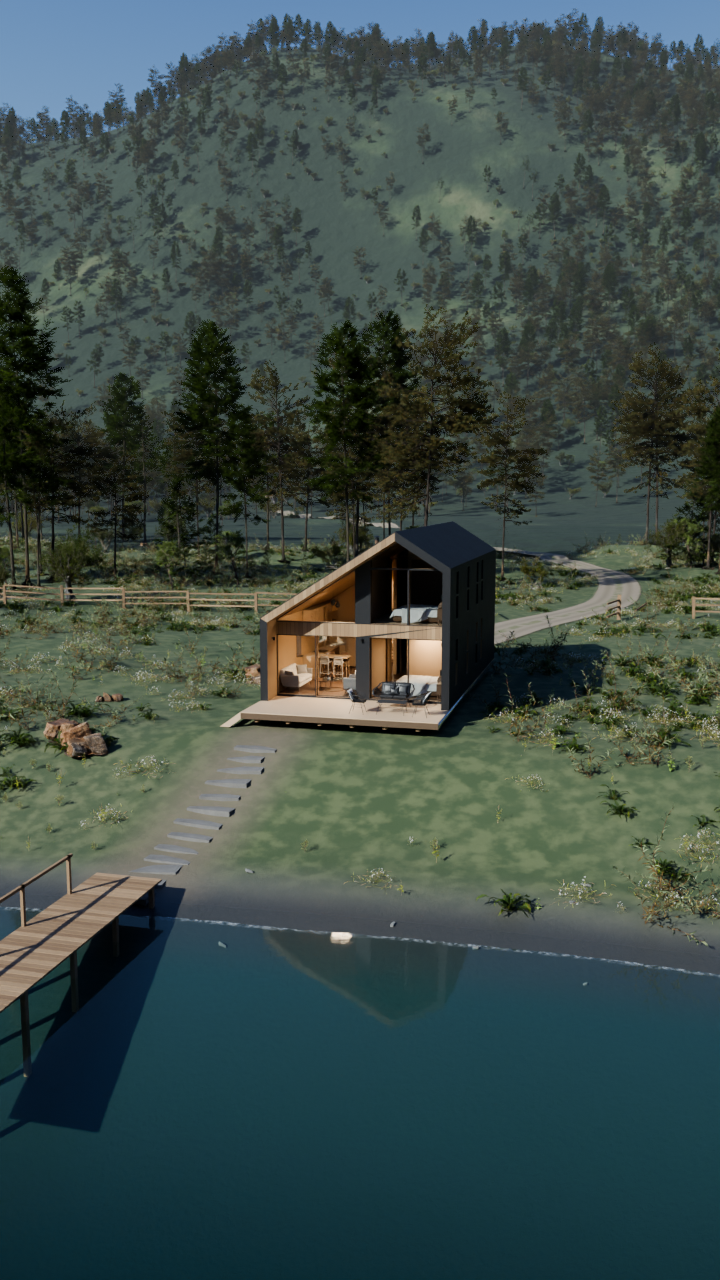
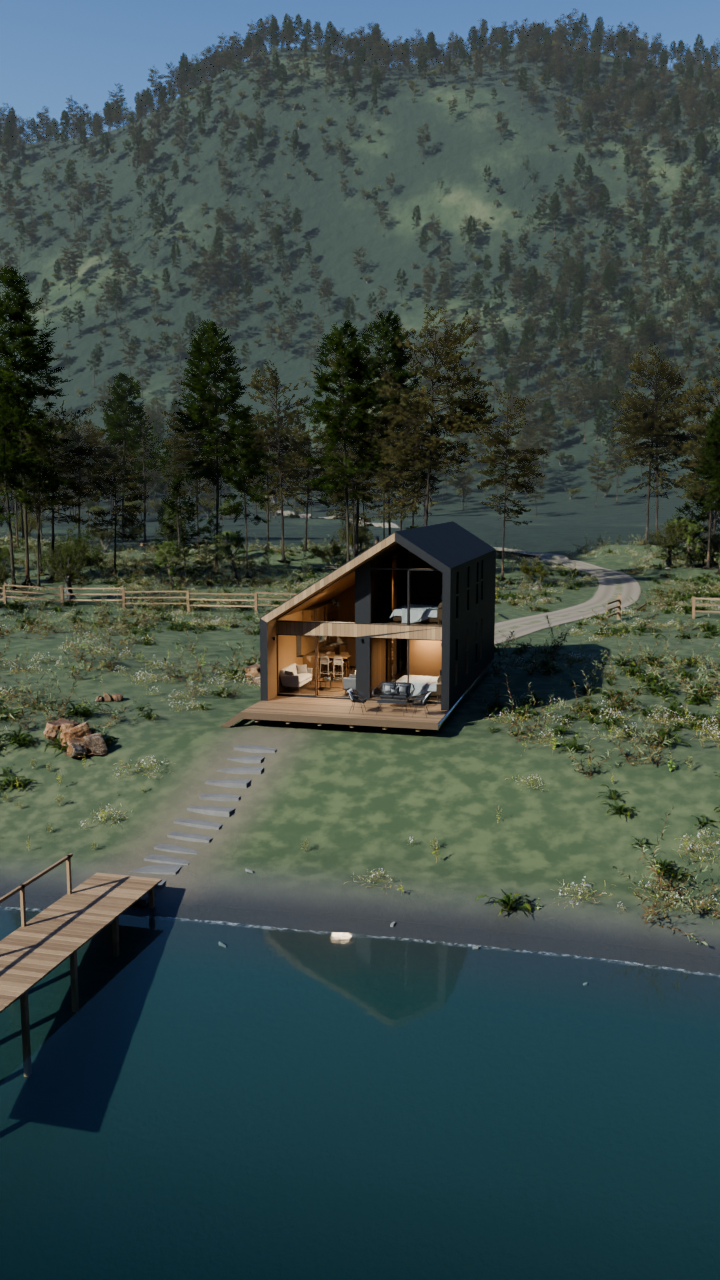
Casa Boldo: el borde que corre a lo largo de la casa estaba sin pintar
Lo marcó la revisión y era cierto. load_house cambiaba nueve materiales del extractor por los de
la escena, y tres se quedaban afuera: Bo_MaderaClara, Bo_MaderaOscura y Bo_DeckBorde. Entre esas
piezas hay muebles —da igual que vayan con color plano— pero también el **canto del piso, que
corre a lo largo de toda la casa a la vista**: salía como una faja clara, lisa y sin veta, que es
justo lo que se leía como "sin pintar".

Ahora el canto y el resto de la madera clara van con la madera del deck, la oscura con una madera
propia y el borde del deck con el negro mate. Se identificó la pieza tirando un rayo desde la
cámara a esa faja, igual que con la raya del camino y los rectángulos del techo.

Claude-Session: https://claude.ai/code/session_01EHD4cEyEQFpm8yyqSpzhVe

Changed region(s): [[0.3361, 0.4375, 0.6111, 0.5625], [0.3056, 0.5625, 0.3361, 0.5938]]

diff --git a/casa_boldo_3d.py b/casa_boldo_3d.py
@@ -689,6 +689,9 @@ def materials():
         "roca": principled("Roca", (0.16, 0.16, 0.15), 0.8),
         "muelle": muelle_mat(),
         "laja": laja_mat(),
+        # Madera oscura de los muebles y de los perfiles de madera que quedan a la vista.
+        "maderaOsc": madera_mat("MaderaOscura", "Y", 0.13, (0.25, 9.0, 9.0), (0.2, 0.125, 0.065),
+                                (0.125, 0.075, 0.038), (0.07, 0.04, 0.02), 0.5, 0.35),
     }
     return M
 
@@ -704,7 +707,12 @@ def load_house(M):
     swap = {"Bo_ChapaNegra": M["chapa"], "Bo_MaderaFachada": M["fachada"], "Bo_MaderaCielo": M["cielo"],
             "Bo_Deck": M["deck"], "Bo_PisoInterior": M["piso"], "Bo_MuroInterior": M["muroint"],
             "Bo_Vidrio": M["vidrio"], "Bo_Pilote": M["hormigon"], "Bo_MarcoNegro": M["marcoNegro"],
-            "Bo_VidrioTecho": M["vidrioTecho"]}
+            "Bo_VidrioTecho": M["vidrioTecho"],
+            # Estos tres se quedaban con el material plano del extractor, y entre ellos hay piezas
+            # que se ven desde afuera: el canto del piso que corre a lo largo de toda la casa salía
+            # como una faja clara sin textura, que es el "borde sin pintar" que marcó la revisión.
+            "Bo_MaderaClara": M["deck"], "Bo_MaderaOscura": M["maderaOsc"],
+            "Bo_DeckBorde": M["marcoNegro"], "Bo_PuertaMadera": M["maderaOsc"]}
     coll = bpy.data.collections.new("Casa")
     bpy.context.scene.collection.children.link(coll)
     for o in b.objects:
